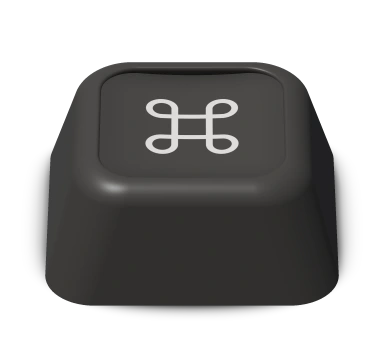
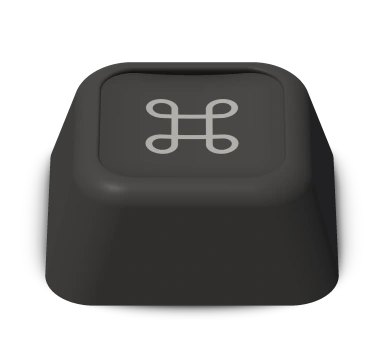
The welcome's keycaps are warmer and quieter: the cream cap leans to the app's Paper, the charcoal cap's mark is a mid grey instead of near white, and the bright glint on the charcoal cap's front edge is gone. The pressed frame now fades in on the app's own curve. qa/welcome-keycaps.mjs holds the we

Changed region(s): [[0.375, 0.275, 0.625, 0.4278], [0.25, 0.4889, 0.3438, 0.55], [0.6562, 0.1833, 0.6875, 0.2139]]

diff --git a/src/renderer/src/components/haligtree/welcome.tsx b/src/renderer/src/components/haligtree/welcome.tsx
@@ -1696,7 +1696,7 @@ function RenderedKey({ name, mark, down, scale }: { name: string; mark: string; 
           <img alt="" draggable={false} srcSet={keyPicture(name, look, false)} width={w} height={h} className="absolute inset-0 select-none"
             style={{ opacity: down ? 0 : 1, transition: `opacity 0ms linear ${down ? 100 : 0}ms` }} />
           <img alt="" draggable={false} data-pressed srcSet={keyPicture(name, look, true)} width={w} height={h} className="absolute inset-0 select-none"
-            style={{ opacity: down ? 1 : 0, transition: 'opacity 100ms ease-out' }} />
+            style={{ opacity: down ? 1 : 0, transition: 'opacity 100ms var(--mf-ease)' }} />
         </span>
       ))}
     </span>
